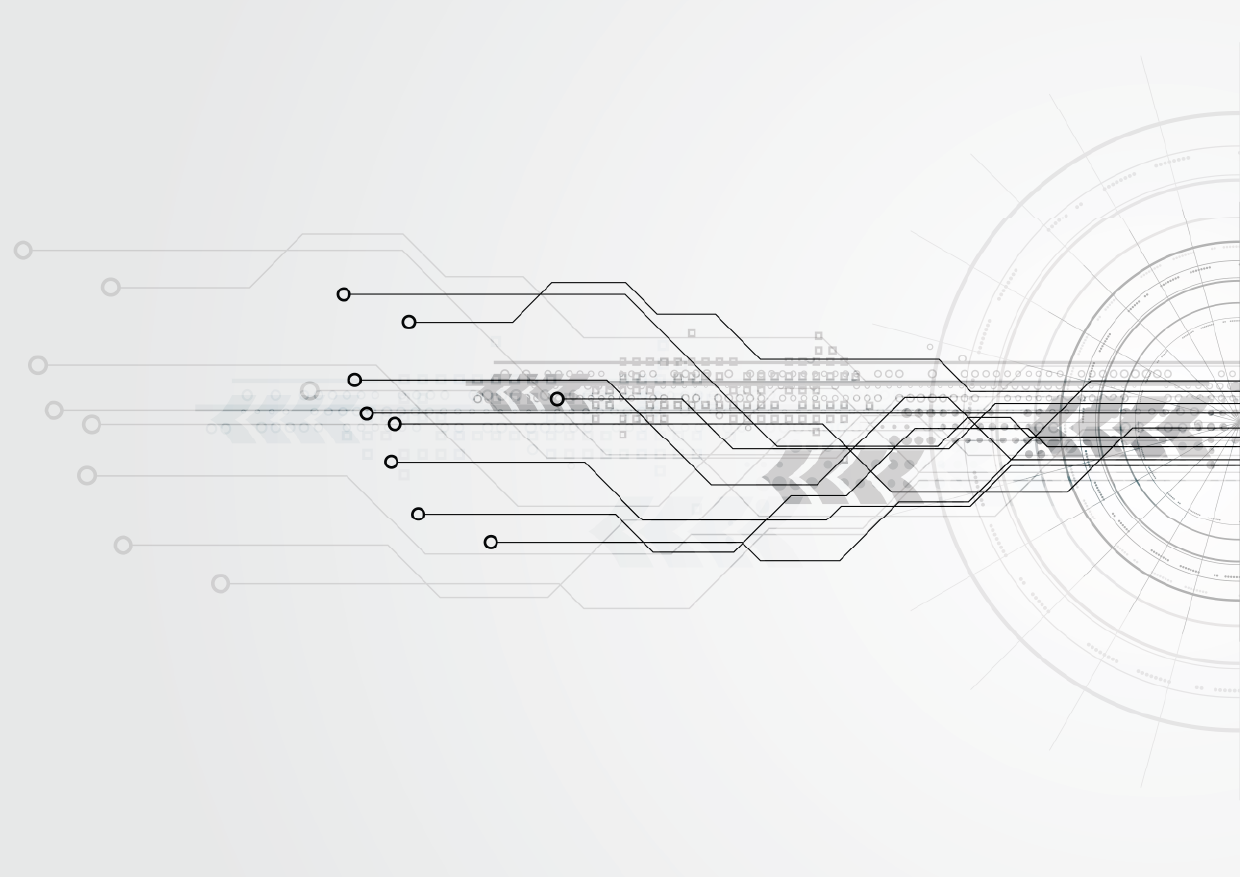
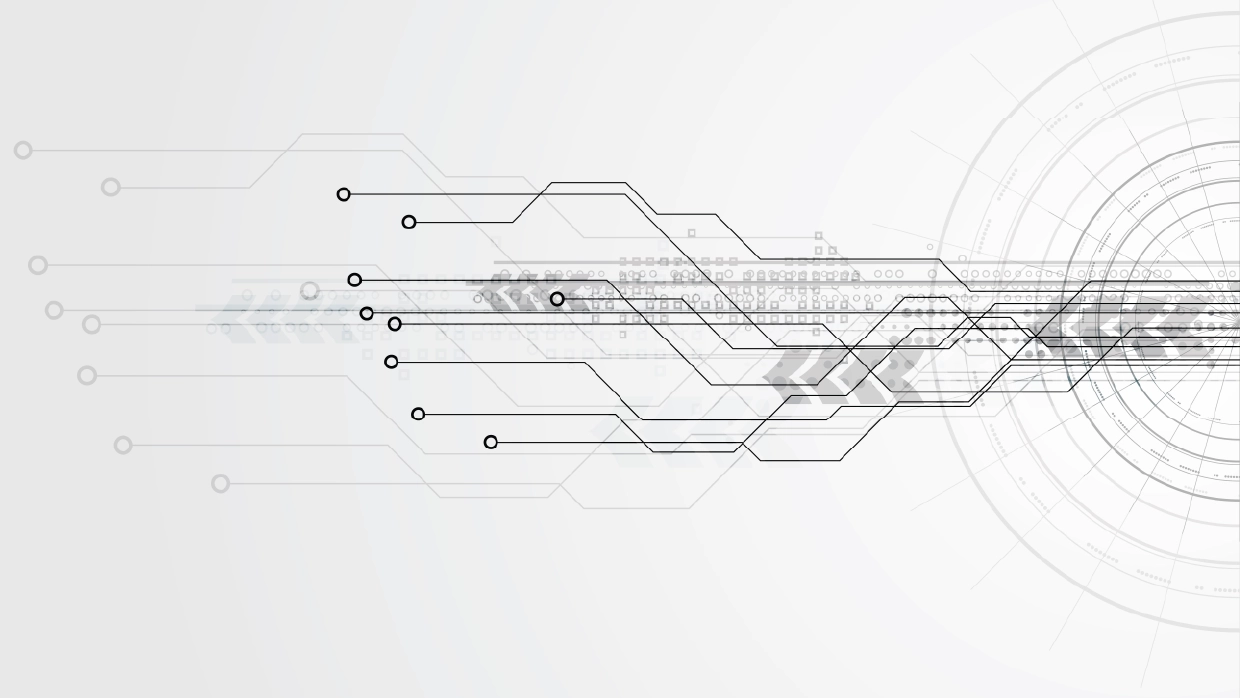
Added Gallery

diff --git a/_projects/project-9.md b/_projects/project-9.md
@@ -1,0 +1,94 @@
+---
+layout: page
+title: "Quant Gallery"
+description: "Explore. Compute. Discover."
+img: assets/images/gen/projects/nippogallerythumb.webp
+tags: quant
+related_publications: true
+importance: 3
+category: Execution Models
+date: 2026-06-04
+---
+
+**[See it in action: launch Quant Gallery →](https://quant.nippotica.com)**
+
+
+The Nippofin Quant Gallery is an interactive demonstration platform covering core
+quantitative finance methods used by institutional clients across Japanese capital
+markets. Each module is parameter-driven and live — adjust inputs and results
+update immediately, without writing a single line of code.
+
+It is designed for quant teams, risk desks, and structured products groups who want
+to explore pricing models, sensitivity measures, and statistical methods in a clean,
+browser-based environment.
+
+
+{% include figure.liquid path="assets/images/gen/projects/nippofingallery.webp" class="img-fluid rounded" %}
+
+---
+
+## Modules
+
+**Jäckel Implied Volatility**
+
+Turns raw option prices into an implied-volatility smile using Peter Jäckel's
+LetsBeRational {% cite jackel2015let %} algorithm, which inverts the Black-Scholes formula to full machine precision in exactly two iterations — faster and more robust than
+standard Newton-Raphson methods.
+
+**Fast Greeks**
+
+Computes the full set of option sensitivities — Delta, Gamma, Vega, Rho, Theta,
+and barrier Greeks — in a single pass using automatic differentiation via JAX,
+demonstrating that reverse-mode AD matches closed-form Black-Scholes Greeks to
+floating-point precision and outperforms bump-and-reprice for Monte Carlo pricers
+as the number of risk factors grows. {% cite capriotti2011fast %} 
+
+**Hit Probability**
+
+Estimates the probability that a stock will reach a target price within a chosen
+time horizon by fitting a four-parameter Lévy α-stable distribution to historical
+log returns — capturing fat tails and extreme events that a normal distribution
+systematically underweights. {% cite Rimmer2008StableDistributions %}
+
+**Return Sensitivity**
+
+Stacks two resampling methods on the same dataset: Jackknife leave-one-out, which
+quantifies estimation uncertainty in the annual return; and delete-d subsampling,
+which maps the full scenario space of what the return would have been if any d
+trading days were removed from history. {% cite friedl2014jackknife martin2010delete %}
+
+---
+
+## Who it is for
+
+- Derivatives desks exploring implied volatility and Greeks
+- Risk teams validating pricing models and sensitivity methods
+- Quant researchers benchmarking statistical estimators
+- Compliance and structured products teams evaluating scenario outcomes
+- Pre-sales demonstrations for institutional clients
+
+---
+
+## Try it
+
+The Quant Gallery runs entirely in the browser. No installation required.
+
+**[Launch Quant Gallery →](https://quant.nippotica.com)**
+
+---
+
+## Enterprise version
+
+The gallery uses public market data and standard model defaults. An enterprise
+version can be calibrated to a client's own data — proprietary option chains,
+internal return histories, and desk-specific parameter sets — and delivered as
+a private deployment behind an authentication layer.
+
+[To discuss an enterprise deployment → contact us](mailto:info@nippotica.com)
+
+---
+
+*Nippofin Quant Gallery is part of Nippofin Models — domain-specific, executable
+applications of Nippofin's quantitative finance solutions, built for institutional markets.*
+
+*Nippofin is the fintech business unit of Nippotica Corporation, Tokyo.*

diff --git a/_projects/project-7.md b/_projects/project-7.md
@@ -5,7 +5,7 @@ description: "See market impact before the trade"
 img: assets/images/gen/projects/tradescopefxthumb.webp
 tags: quant  
 related_publications: true
-importance: 2
+importance: 1
 category: Execution Models
 date: 2026-06-02
 ---
